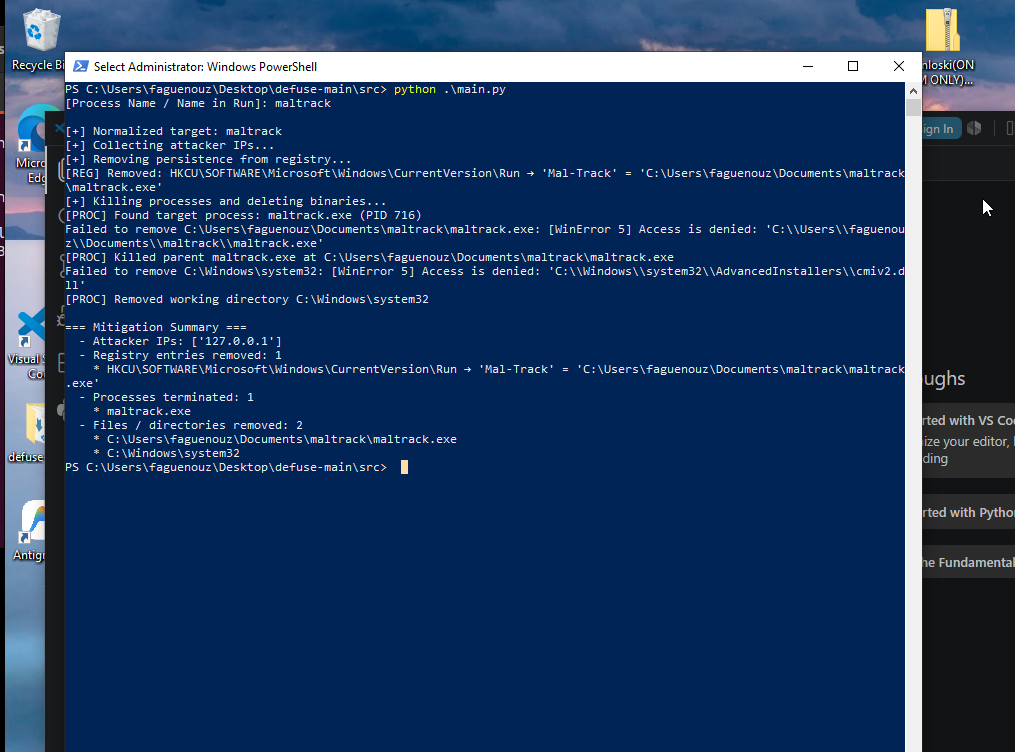
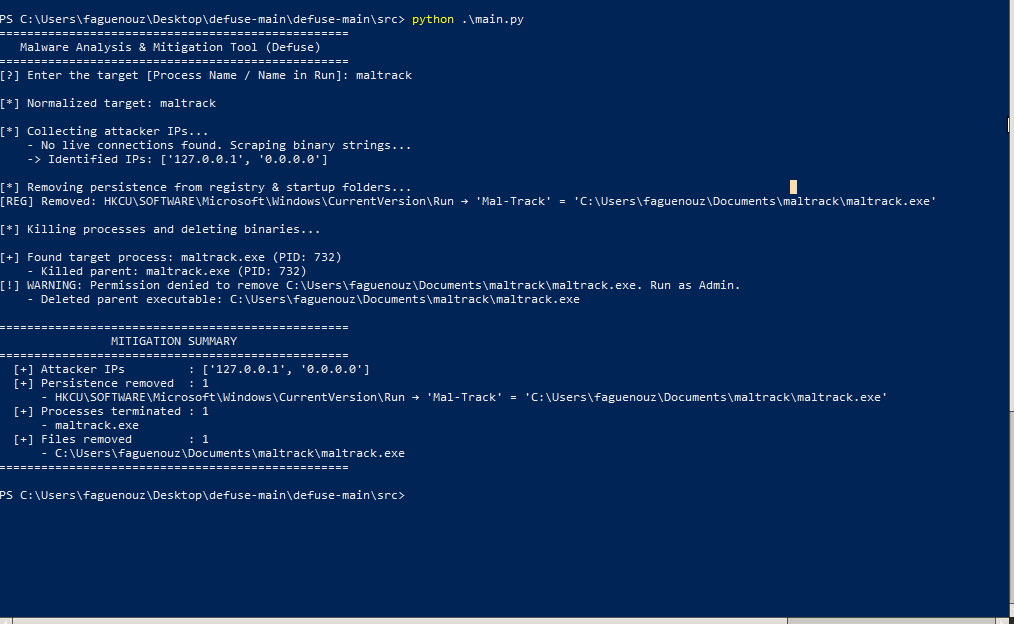
change the permission of the target file

diff --git a/src/handler/process.py b/src/handler/process.py
@@ -1,5 +1,6 @@
 import psutil
 import os
+import shutil
 from handler import file
 from handler.file import normalize_target
 
@@ -28,7 +29,6 @@ def kill_by_name(name: str):
                     try:
                         child_name = child.name()
                         
-                        # Safely try to get the executable path
                         try:
                             child_path = child.exe()
                         except psutil.AccessDenied:
@@ -41,11 +41,11 @@ def kill_by_name(name: str):
                             print(f"    - Killed child: {child_name} (PID: {child.pid})")
                             removed.append(child_name)
                             
-                            # Only delete if it's a specific file, NEVER a directory
+                            # Only delete if it's a specific file
                             if child_path and os.path.isfile(child_path):
-                                file.remove_exe(child_path)
-                                removed_paths.append(child_path)
-                                print(f"    - Deleted child executable: {child_path}")
+                                if file.remove_exe(child_path):
+                                    removed_paths.append(child_path)
+                                    print(f"    - Deleted child executable: {child_path}")
 
                     except psutil.AccessDenied:
                         print(f"[!] WARNING: Access denied to kill child {child_name}.")
@@ -65,17 +65,28 @@ def kill_by_name(name: str):
                     print(f"    - Killed parent: {proc_name} (PID: {proc.pid})")
                     removed.append(proc_name)
                     
-                    # Only delete if it's a specific file, NEVER a directory
+                    # 3. DELETE EXECUTABLE AND SAFE FOLDER CLEANUP
                     if parent_path and os.path.isfile(parent_path):
-                        file.remove_exe(parent_path)
-                        removed_paths.append(parent_path)
-                        print(f"    - Deleted parent executable: {parent_path}")
+                        # Try to delete the .exe file
+                        if file.remove_exe(parent_path):
+                            removed_paths.append(parent_path)
+                            print(f"    - Deleted parent executable: {parent_path}")
+                            
+                            # SAFE FOLDER DELETION: Check if the folder name matches the malware name
+                            parent_dir = os.path.dirname(parent_path)
+                            folder_name = os.path.basename(parent_dir).lower()
+                            
+                            if folder_name == target:
+                                try:
+                                    shutil.rmtree(parent_dir)
+                                    removed_paths.append(parent_dir)
+                                    print(f"    - Deleted malware folder: {parent_dir}")
+                                except Exception as e:
+                                    print(f"[!] WARNING: Could not delete malware folder {parent_dir}: {e}")
 
         except psutil.NoSuchProcess:
             pass
         except psutil.AccessDenied:
-            # We don't print on every single AccessDenied in process_iter to avoid console spam,
-            # but if it fails on our target, it's handled above.
             pass
         except Exception as e:
             print(f"[!] Unexpected error on PID {proc.pid}: {e}")

diff --git a/src/handler/file.py b/src/handler/file.py
@@ -1,22 +1,30 @@
 from pathlib import Path
 import os
 import re
+import stat
 
-def remove_exe(path_str: str):
-    """Safely removes a specific file. Strictly refuses to delete directories."""
+def remove_exe(path_str: str) -> bool:
+    """Safely removes a specific file, bypassing Read-Only locks."""
     try:
         path = Path(path_str)
 
         if path.exists():
             if path.is_file():
+                # Force Windows to remove the Read-Only attribute
+                os.chmod(path, stat.S_IWRITE)
                 os.remove(path)
+                return True
             elif path.is_dir():
-                print(f"[!] DANGER: Blocked attempt to delete an entire directory: {path_str}")
-                print("    Only individual executable files should be targeted.")
+                print(f"[!] DANGER: Blocked generic attempt to delete directory: {path_str}")
+                return False
     except PermissionError:
-        print(f"[!] WARNING: Permission denied to remove {path_str}. Run as Admin.")
+        print(f"[!] WARNING: Permission denied to remove {path_str}. It might be locked by another process.")
+        return False
     except Exception as e:
         print(f"[!] WARNING: Failed to remove {path_str}: {e}")
+        return False
+        
+    return False
 
 def extract_strings(proc_path: str, min_length: int = 4) -> list:
     """Extracts human-readable strings from a binary file to find IPs."""

diff --git a/README.md b/README.md
@@ -12,24 +12,24 @@ The tool is designed to:
 
 ### Core Modules
 
-- `file_handler.py`  
+- `file.py`  
   - Normalizes user input (`Mal-Track` → `maltrack`) for consistent matching.  
   - Deletes files or directories via `remove_exe(path)`.  
   - Extracts printable strings from the malware binary to search for embedded IPs (`extract_strings`).
 
-- `process_handler.py`  
+- `process.py`  
   - Iterates over all processes using `psutil`.  
   - Matches the target by normalized name (`maltrack`, `maltrack.exe`).  
   - Kills child processes first, then the parent.  
   - Deletes executable files and the malware working directory.  
   - Returns lists of terminated process names and removed file paths.
 
-- `network_handler.py`  
+- `network.py`  
   - Uses `psutil.net_connections()` to extract IP addresses associated with the malware process.  
   - Falls back to reading strings from the binary and using regex to find IP patterns.  
   - In this lab, ensures `127.0.0.1` is reported as the attacker IP if no other value is found.
 
-- `registry_handler.py`  
+- `registry.py`  
   - Scans common Windows persistence keys:  
     - `HKCU\SOFTWARE\Microsoft\Windows\CurrentVersion\Run`  
     - `HKLM\SOFTWARE\Microsoft\Windows\CurrentVersion\Run`  
@@ -103,8 +103,7 @@ Tools used:
 
    **Wireshark:**
    ![Wireshark](resources/images/wireshark.png)  
-   **VM Network:**
-   ![VM Network](resources/images/vmnetwork.png)
+
 
 4. **VM Isolation and Safety**
 
